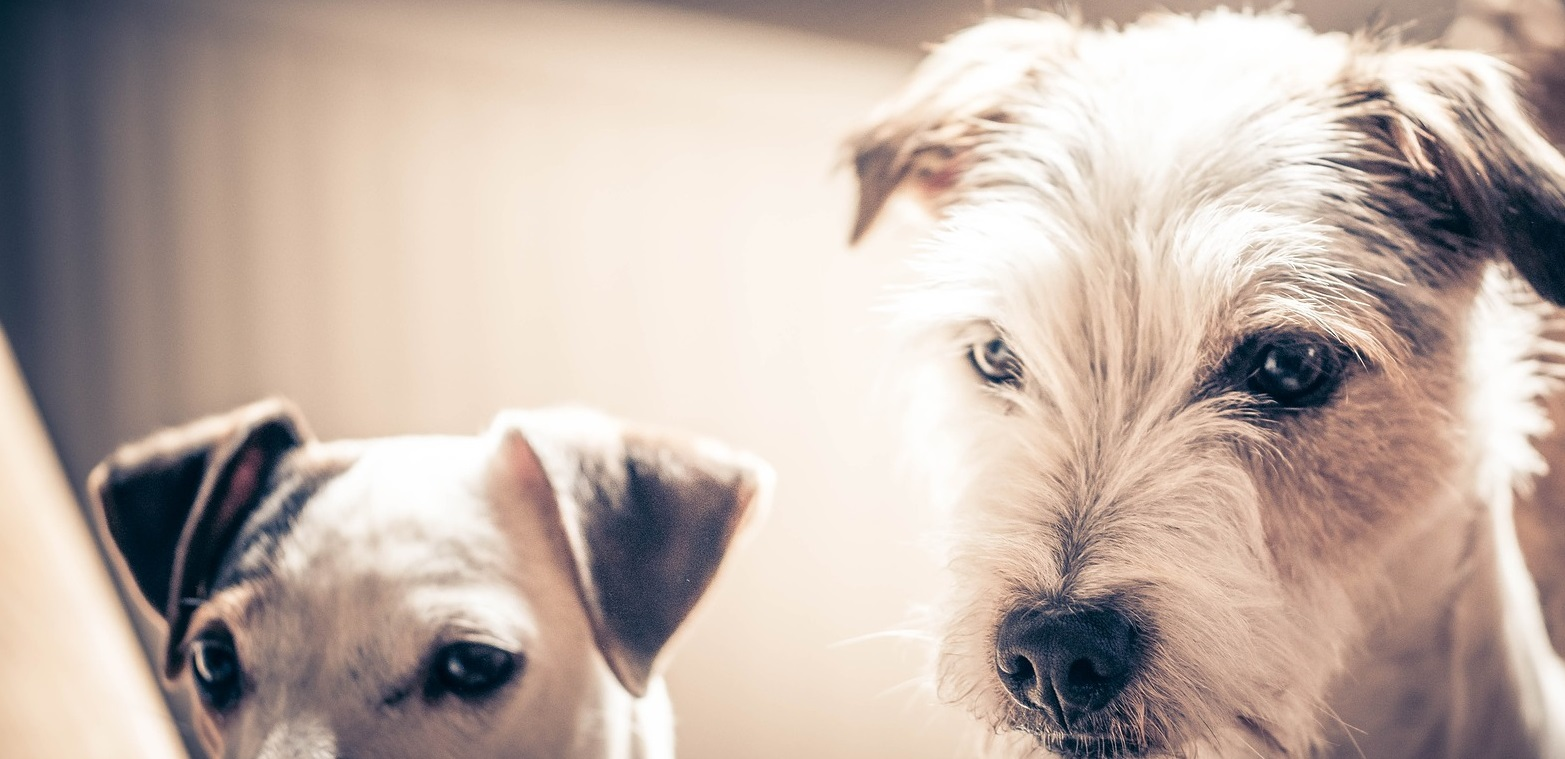
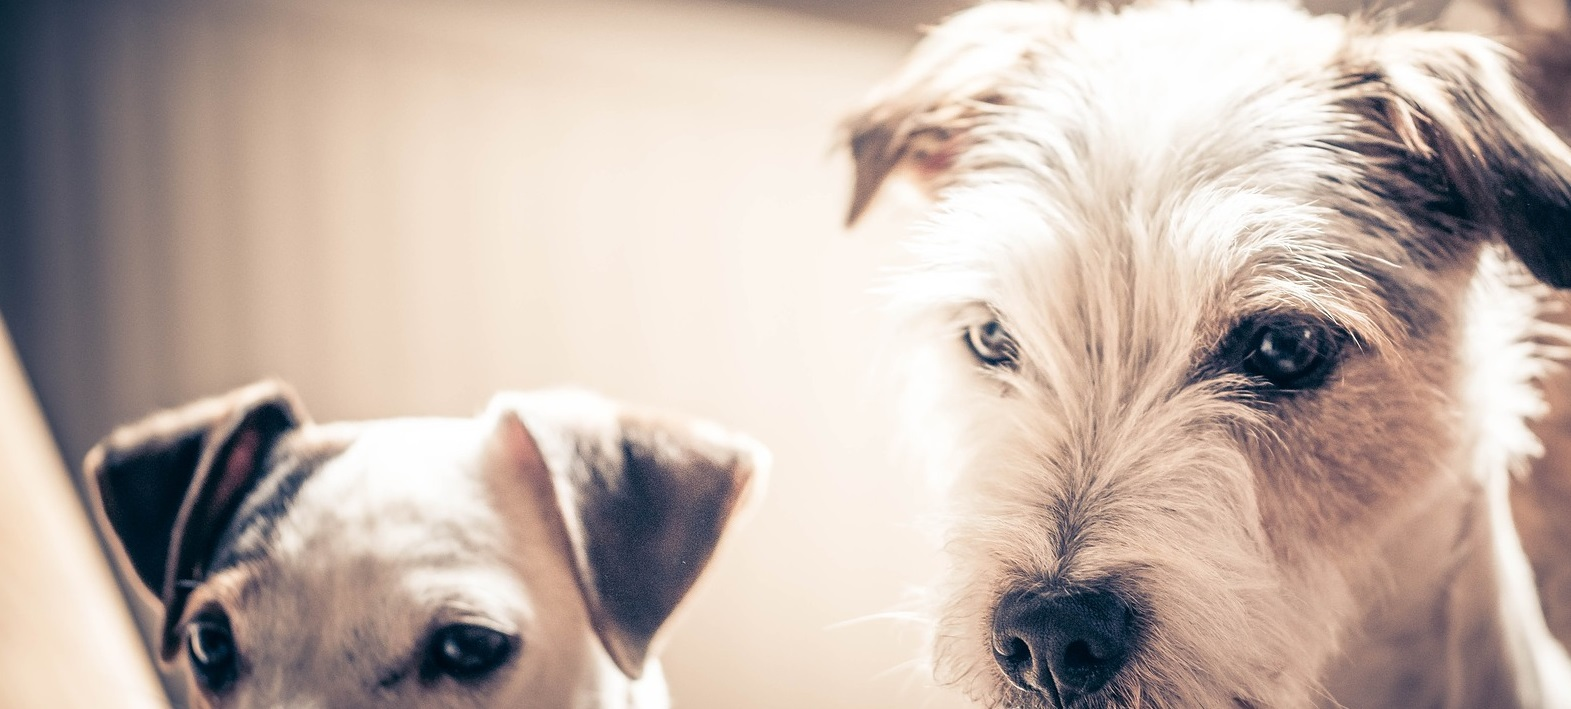
Working on Before You Adopt responsiveness

Changed region(s): [[0.3374, 0.0, 1.0, 1.0], [0.0, 0.4344, 0.4907, 1.0], [0.5521, 0.8378, 0.5827, 0.8688]]

diff --git a/app/templates/before_you_adopt.html b/app/templates/before_you_adopt.html
@@ -9,52 +9,62 @@
 {% endblock %}
 {% block content %}
 
-<section class="banner-area relative banner-general banner-before-you-adopt" id="home">
+<!--<section class="banner-area relative banner-general banner-before-you-adopt" id="home">
     <div class="container">
         <div class="overlay overlay-bg"></div>
         <div class="row fullscreen d-flex justify-content-start" style="0px">
             <div class="banner-content col-lg-8 col-md-12">
-                 <!--<a><img class="banner-logo" src="../static/img/LOGO2.png" alt="" title="" /></a>-->
+                 &lt;!&ndash;<a><img class="banner-logo" src="../static/img/LOGO2.png" alt="" title="" /></a>&ndash;&gt;
                 <p class="text-white sub-head banner-lg-font">
                     Before You Adopt
                 </p>
-                <!--<a href="#" class="primary-btn header-btn text-uppercase no-decoration">Find a pet to adopt</a>-->
+                &lt;!&ndash;<a href="#" class="primary-btn header-btn text-uppercase no-decoration">Find a pet to adopt</a>&ndash;&gt;
             </div>
         </div>
     </div>
-</section>
-  <div class="container content-section">
-    <h1>Before You Adopt</h1>
-    <p>
-      <a href="https://www.therealjackrussell.com/breed/jrprofiler.php?fbclid=IwAR0gQNwzhWMxMgMfCpGGXIw5XsA5E9K6Nwel8lYklsSOBlC0hevGgvc2dUQ">
+</section>-->
+
+    <section class="banner-area relative banner-before-you-adopt">
+        <div class="overlay overlay-bg"></div>
+       <div class="row fullscreen" style="margin-left: 0px; margin-right: 0px">
+                <div class="banner-content banner-content-about col-lg-12 col-md-6 justify-content-center">
+                    <p class="text-white banner-lg-font">Before You Adopt</p>
+                </div>
+            </div>
+    </section>
+
+    <div class="container content-section">
+        <h1>Before You Adopt</h1>
+        <p>
+        <a href="https://www.therealjackrussell.com/breed/jrprofiler.php?fbclid=IwAR0gQNwzhWMxMgMfCpGGXIw5XsA5E9K6Nwel8lYklsSOBlC0hevGgvc2dUQ">
         Is a Jack Russell Terrier the Right Dog for You?
-      </a>
-      <br>
-      1. Rescue dogs must have containment (fence, kennel); JRTs are rarely suitable for city living. 
-      <br>
-      2. We do not place terriers in homes where it must remain alone for extended periods of time.
-      <br> 
-      3. We do not place dogs in homes where there are children under six years of age.
-      <br>
-      4. Few rescue dogs are good with cats.
-      <br>
-      5. Most terriers in Rescue are young adults; puppies are rarely, if ever, available.
-      <br>
-      6. Filling out an application does not guarantee adoption. Jack Russell Terriers have special needs. Not all homes are suitable for placement.
-      <br>
-      7. All applicants are thoroughly screened and must meet certain qualifications before being referred for a terrier.
-      <br>
-      8. Compatible terriers may not be immediately available; your patience is appreciated.
-      <br>
-      9. A donation to Russell Rescue, Inc. is required to adopt a terrier.
-      <br>
-      10. Remember, the more conditions you make (i.e., color, coat type, age, sex and body type), the longer it will take to find a suitable terrier to match your environment.  Please be open-minded to the different qualities that each terrier has to offer.
-      <br>
-      11. By submitting this application, you are making a formal request to adopt a dog from Russell Rescue, Inc. Please do not fill out this application if you are not serious about working with Russell Rescue, Inc.
-      <br>
-      12. If a terrier is matched to your application and placed in your home, you must agree to keep the terrier for at least 3 weeks (to allow time for the terrier and you to acclimate with each other).
-      <br>
-      13. We can only place terriers in homes located in the United States.
-    </p>
-  </div>
+        </a>
+        <br>
+        1. Rescue dogs must have containment (fence, kennel); JRTs are rarely suitable for city living.
+        <br>
+        2. We do not place terriers in homes where it must remain alone for extended periods of time.
+        <br>
+        3. We do not place dogs in homes where there are children under six years of age.
+        <br>
+        4. Few rescue dogs are good with cats.
+        <br>
+        5. Most terriers in Rescue are young adults; puppies are rarely, if ever, available.
+        <br>
+        6. Filling out an application does not guarantee adoption. Jack Russell Terriers have special needs. Not all homes are suitable for placement.
+        <br>
+        7. All applicants are thoroughly screened and must meet certain qualifications before being referred for a terrier.
+        <br>
+        8. Compatible terriers may not be immediately available; your patience is appreciated.
+        <br>
+        9. A donation to Russell Rescue, Inc. is required to adopt a terrier.
+        <br>
+        10. Remember, the more conditions you make (i.e., color, coat type, age, sex and body type), the longer it will take to find a suitable terrier to match your environment.  Please be open-minded to the different qualities that each terrier has to offer.
+        <br>
+        11. By submitting this application, you are making a formal request to adopt a dog from Russell Rescue, Inc. Please do not fill out this application if you are not serious about working with Russell Rescue, Inc.
+        <br>
+        12. If a terrier is matched to your application and placed in your home, you must agree to keep the terrier for at least 3 weeks (to allow time for the terrier and you to acclimate with each other).
+        <br>
+        13. We can only place terriers in homes located in the United States.
+        </p>
+    </div>
 {% endblock %}

diff --git a/app/templates/index.html b/app/templates/index.html
@@ -3,22 +3,6 @@
 {% block content %}
 
     <!-- Start Banner Area -->
-    <!--<section class="banner-area relative banner-home">-->
-        <!--<div class="container banner-home-container overlay-bg">-->
-            <!--<div class="overlay overlay-bg"></div>-->
-            <!--<div class="row">-->
-                <!--<div class="col-lg-4 col-md-4 col-sm-4">-->
-                    <!--<img class="banner-logo" src="../static/img/LOGO1_vector.png" alt="Texas Russell Rescue Logo" title="Texas Russell Rescue Logo" />-->
-                    <!--<p class="text-white sub-head banner-sm-font">-->
-                        <!--Texas Russell Rescue is the Texas group of Russell Rescue, Inc., a national network of volunteers-->
-                        <!--dedicated to placing unwanted, displaced or abandoned Jack Russell Terriers into permanent homes.-->
-                    <!--</p>-->
-                <!--</div>-->
-                <!--<div class="col-lg-8"></div>-->
-            <!--</div>-->
-
-        <!--</div>-->
-    <!--</section>-->
     <section class="banner-area relative banner-home">
         <div class="overlay overlay-bg"></div>
        <div class="row fullscreen" style="margin-left: 0px; margin-right: 0px">

diff --git a/app/templates/about.html b/app/templates/about.html
@@ -10,21 +10,6 @@
 
 {% block content %}
 
-    <!--<section class="banner-area relative banner-general banner-about" id="home">
-        <div class="container">
-            <div class="overlay overlay-bg"></div>
-            <div class="row d-flex justify-content-start">
-                <div class="banner-content col-lg-8 col-md-12">
-                     &lt;!&ndash;<a><img class="banner-logo" src="../static/img/LOGO2.png" alt="" title="" /></a>&ndash;&gt;
-                    <p class="text-white sub-head banner-lg-font">
-                        About Us
-                    </p>
-                    &lt;!&ndash;<a href="#" class="primary-btn header-btn text-uppercase no-decoration">Find a pet to adopt</a>&ndash;&gt;
-                </div>
-            </div>
-        </div>
-    </section>-->
-
     <section class="banner-area relative banner-about">
         <div class="overlay overlay-bg"></div>
        <div class="row fullscreen" style="margin-left: 0px; margin-right: 0px">

diff --git a/app/static/css/main.css b/app/static/css/main.css
@@ -2568,10 +2568,11 @@ body.mobile-nav-active #mobile-nav-toggle {
 
 
 .banner-before-you-adopt {
-  background: url(../img/jr10.jpg) center;
-  background-size: cover;
-  margin-top: 80px;
-  height: 400px;
+    background: url(../img/jr10.jpg) center;
+    background-size: cover;
+    background-position: top;
+    margin-top: 80px;
+    height: 400px;
 }
 
 .banner-adoption-app {
